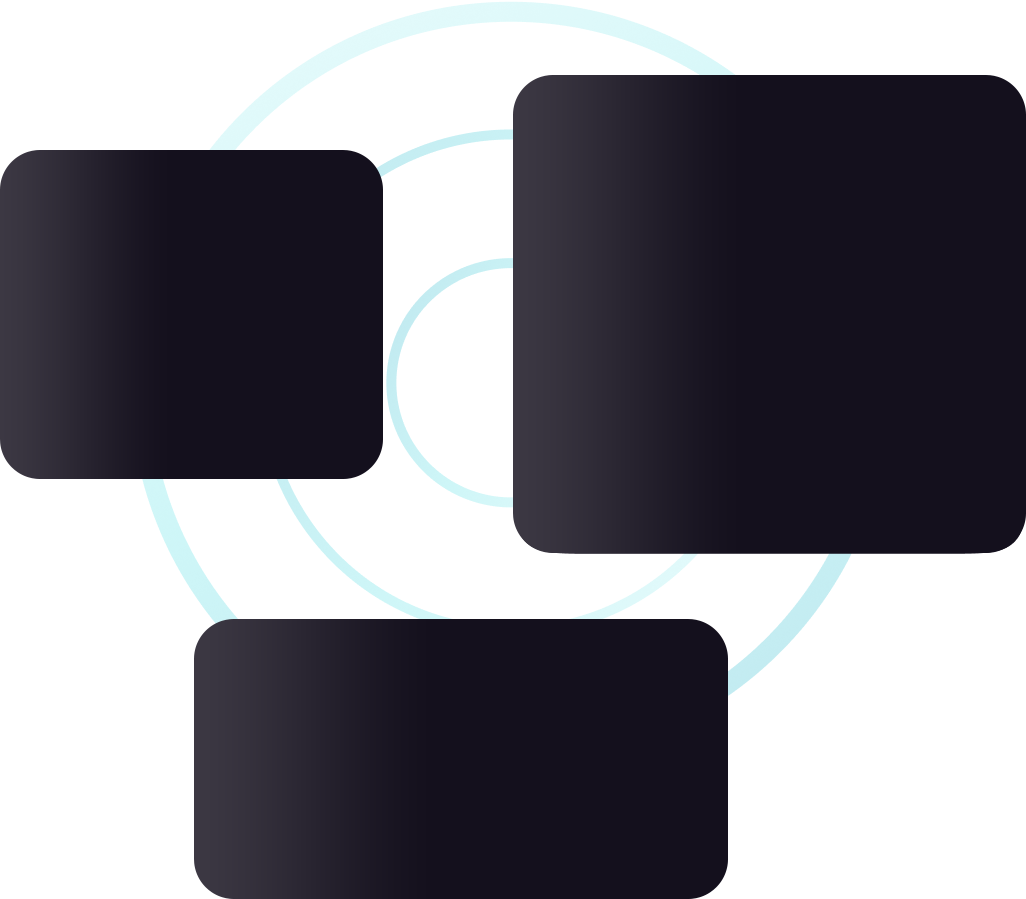
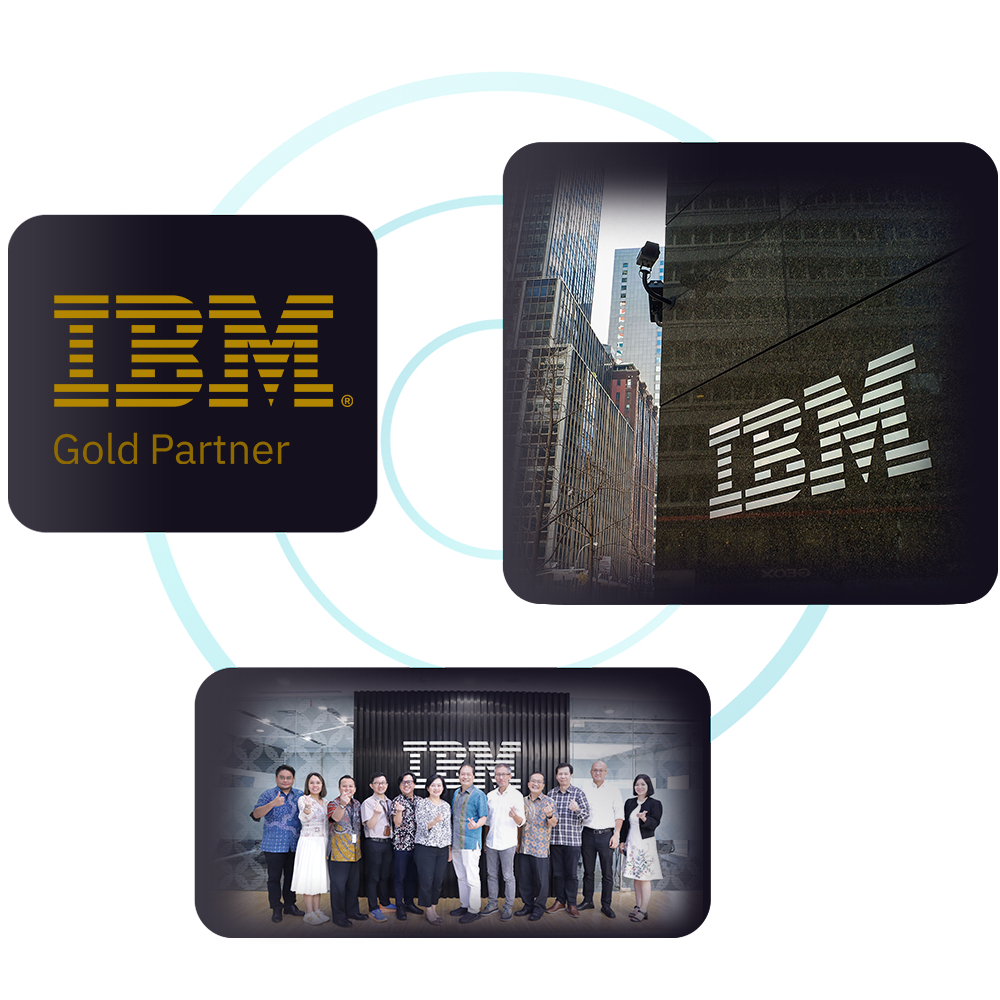
publish

diff --git a/src/components/Form.jsx b/src/components/Form.jsx
@@ -26,10 +26,10 @@ const Form = () => {
         </div>
         <div className={layout.sectionInfo}>
           <h2 className={styles.heading2}>
-            Form<br className="sm:block hidden" /> 
+            Konsultasi<br className="sm:block hidden" /> 
           </h2>
           <p className={`${styles.paragraph} max-w-[660px] mt-5`}>
-            Lihat informasi yang lebih details 
+          Jangan ragu untuk berdiskusi dengan pakar kami guna mempercepat perubahan bisnis Anda
           </p>
           <div className="w-full max-w-lg">
             <form className=" shadow-md rounded px-8 pt-6 pb-8 mb-4 mt-5" ref={form} >

diff --git a/src/assets/index.js b/src/assets/index.js
@@ -1,4 +1,4 @@
-import airbnb from "./airbnb.png";
+import airbnb from "./ibm-web.png";
 import master from "./logo-master.png";
 import bill from "./bill.png";
 import binance from "./binance.png";
